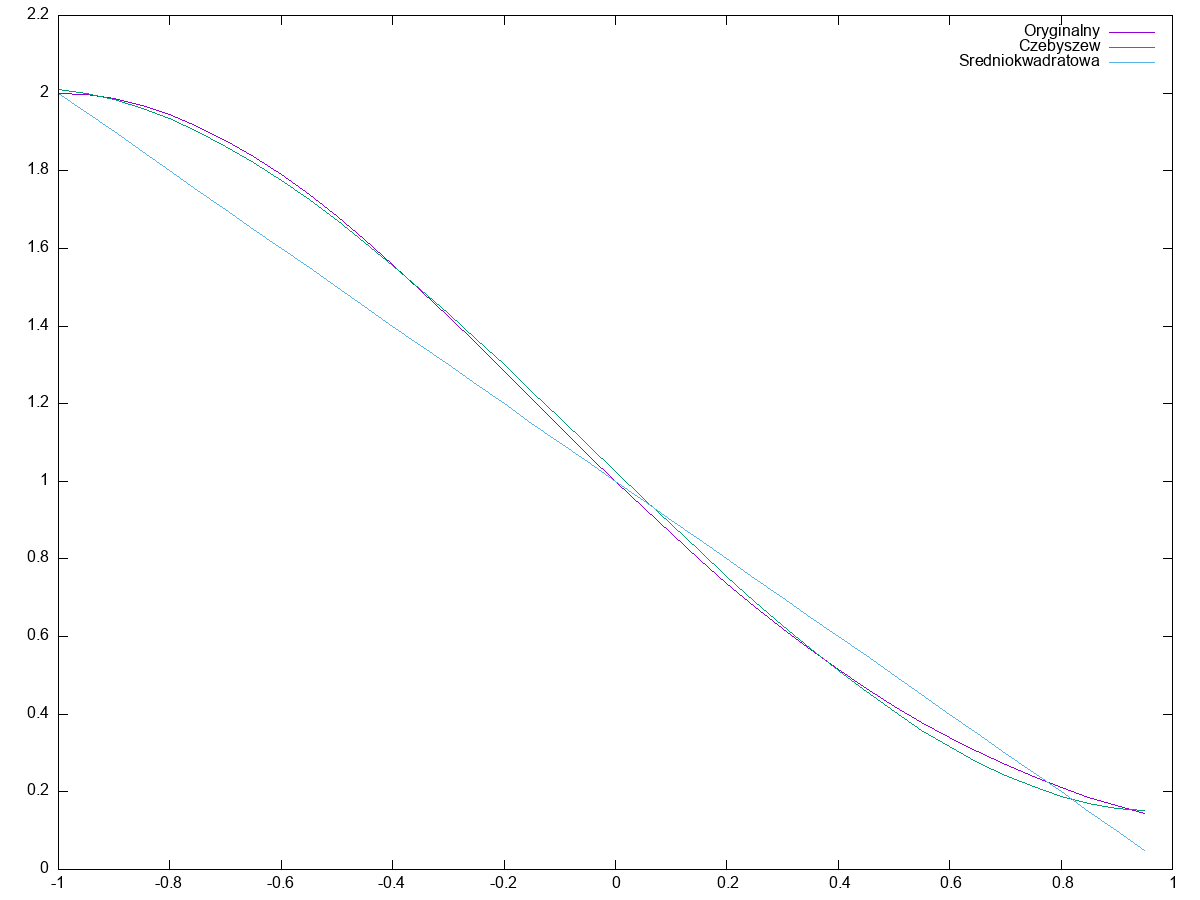
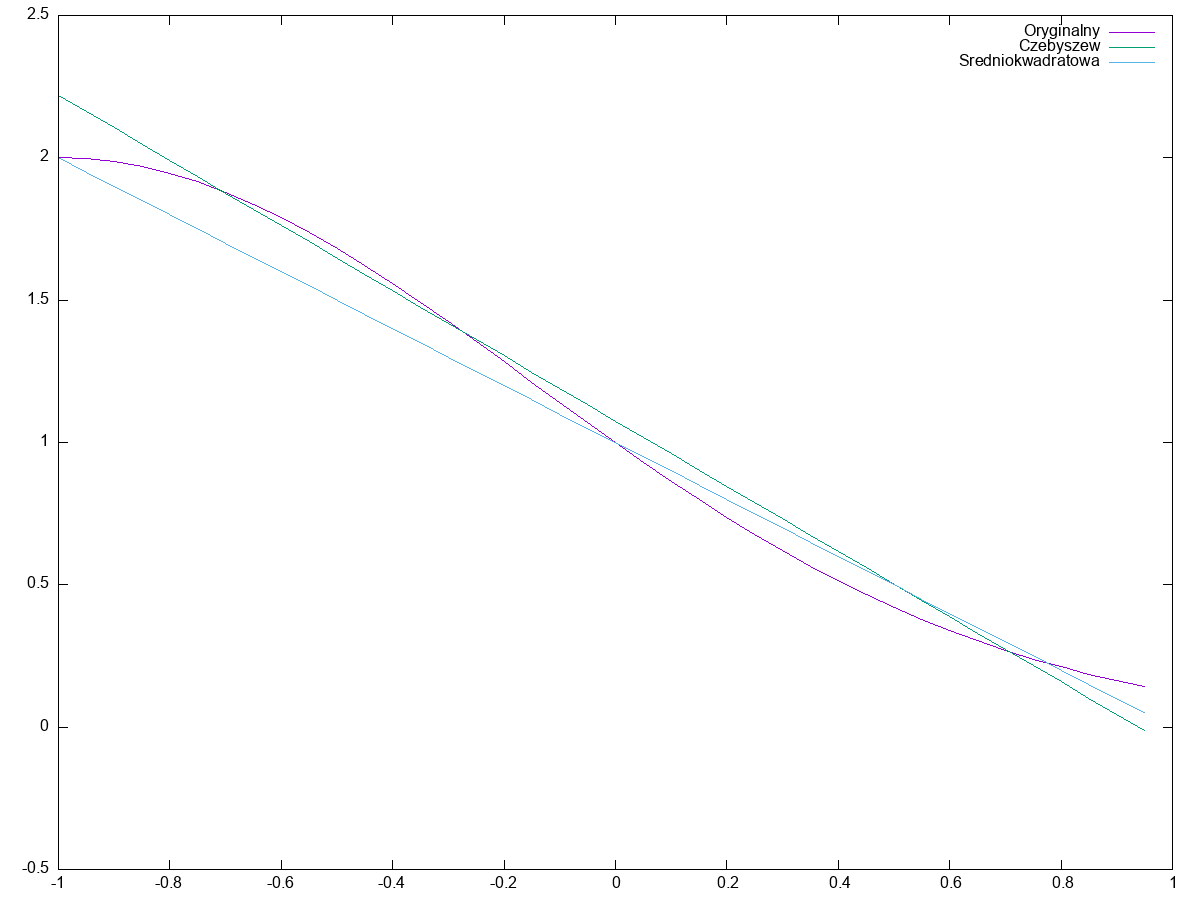
Initial commit

Changed region(s): [[0.0308, 0.7778, 0.0617, 0.8089], [0.0308, 0.1556, 0.0617, 0.1867], [0.0308, 0.0933, 0.0617, 0.1244]]

diff --git a/czebyszew-a-sredniokwadratowa/main.c b/czebyszew-a-sredniokwadratowa/main.c
@@ -22,8 +22,8 @@ void approxSquares() {
         xs[i] = -1 + i * 2 / 100;
         ys[i] = originalFunc(xs[i], NULL);
     }
-    double c0, c1;
-    gsl_fit_linear(xs, 0, ys, 0, 100, &c0, &c1, null, null);
+    double c0, c1, cov00, cov01, cov11, sumsq;
+    gsl_fit_linear(xs, 1, ys, 1, 100, &c0, &c1, &cov00, &cov01, &cov11, &sumsq);
     FILE* approxFile = fopen("approx-squares.txt", "w");
     EVAL_TO_FILE(approxFile, c0 + c1 * x);
     fclose(approxFile);
@@ -31,7 +31,7 @@ void approxSquares() {
 
 void approximateChebyshev() {
     FILE *chebyshevFile = fopen("approx-chebyshev.txt", "w");
-    gsl_cheb_series *series = gsl_cheb_alloc(5);
+    gsl_cheb_series *series = gsl_cheb_alloc(1);
     gsl_function func;
     func.function = originalFunc;
     func.params = NULL;

diff --git a/czebyszew/main.c b/czebyszew/main.c
@@ -70,7 +70,6 @@ void approxAndSave(char *filePrefix, double (*function)(double x, void *params))
             approx6FileName,
             approx10FileName
     );
-
     system(gnuplot_command);
 }
 

diff --git a/README.md b/README.md
@@ -1,0 +1,108 @@
+Kuba Walusiak, Juliusz Kościołek 09.04.2022, Laboratorium 3
+
+# Aproksymacja funkcji, aproksymacja w bibliotece GSL
+
+## Zad 1
+
+### Polecenie
+
+Proszę zastosować aproksymację Czebyszewa dla funkcji:
+
+```
+y = exp((x**2) w przedziale od -1 do 1
+y = abs(x+x**3) w przedziale od -1 do 1
+y = sign(x) w przedziale od -1 do 1
+```
+
+Dla każdej funkcji proszę:
+
+* narysować wykres funkcji aproksymowanej i aproksymującej (gnuplot)
+* sprawdzić, jak wynik zależy od stopnia wielomianu aproksymującego - przedstawić odpowiednie wykresy
+
+### Wykonanie
+
+Uruchomiono program `czebyszew/main.c`, który wygenerował pliki tekstowe:
+
+* `abs-original` - wartości funkcji `abs`
+* `exp-original` - wartości funkcji `exp`
+* `sign-original` - wartości funkcji `sign`
+* `abs-approxN` - aproksymacja funkcji `abs` za pomocą wielomianów Czebyszewa, gdzie N to stopień wielomianu. Użyte
+  stopnie to 3, 6 i 10.
+* `exp-approxN` - aproksymacja funkcji `exp` za pomocą wielomianów Czebyszewa, gdzie N to stopień wielomianu. Użyte
+  stopnie to 3, 6 i 10.
+* `sign-approxN` - aproksymacja funkcji `sign` za pomocą wielomianów Czebyszewa, gdzie N to stopień wielomianu. Użyte
+  stopnie to 3, 6 i 10.
+
+Polecenie kompilujące program `czebyszew/main.c` to:
+
+```
+gcc main.c -lgslcblas -lgsl -lm -o main && ./main
+```
+
+Ponadto, program `czebyszew/main.c` wygenerował następujące pliki:
+
+* `abs.png` - wykres dla funkcji `abs`, zawierający oryginalną funkcję i aproksymacje za pomocą wielomianów Czebyszewa
+* `exp.png` - wykres dla funkcji `exp`, zawierający oryginalną funkcję i aproksymacje za pomocą wielomianów Czebyszewa
+* `sign.png` - wykres dla funkcji `sign`, zawierający oryginalną funkcję i aproksymacje za pomocą wielomianów Czebyszewa
+
+Wykresy wygenerowano za pomocą programu `gnuplot`. Program `gnuplot` wywołano z poniższymi poleceniami:
+
+```
+gnuplot -e "set terminal png size 1200,900; set output 'exp.png'; \
+  plot 'exp-original.txt' with lines title 'Oryginalny', \
+  'exp-approx3.txt' with lines title 'Stopien = 3', \
+  'exp-approx6.txt' with lines title 'Stopien = 6', \
+  'exp-approx10.txt' with lines title 'Stopien = 10'"
+gnuplot -e "set terminal png size 1200,900; set output 'abs.png'; \
+  plot 'abs-original.txt' with lines title 'Oryginalny', \
+  'abs-approx3.txt' with lines title 'Stopien = 3', \
+  'abs-approx6.txt' with lines title 'Stopien = 6', \
+  'abs-approx10.txt' with lines title 'Stopien = 10'"
+gnuplot -e "set terminal png size 1200,900; set output 'sign.png'; \
+  plot 'sign-original.txt' with lines title 'Oryginalny', \
+  'sign-approx3.txt' with lines title 'Stopien = 3', \
+  'sign-approx6.txt' with lines title 'Stopien = 6', \
+  'sign-approx10.txt' with lines title 'Stopien = 10'"
+```
+
+### Wykresy
+
+Dla funkcji `abs`:
+
+![](czebyszew/abs.png)
+
+Dla funkcji `exp`:
+
+![](czebyszew/exp.png)
+
+Dla funkcji `sign`:
+
+![](czebyszew/sign.png)
+
+## Zad. 2
+
+### Polecenie
+
+1. Wykonać aproksymację funkcji `f(x)=(1/2)**( x**2+2x)`, gdzie x należy do przedziału `(-1,1)` przy pomocy aproksymacji
+   średniokwadratowej
+2. Znaleźć aproksymację tej funkcji przy pomocy aproksymacji jednostajnej i porównać tę aproksymację z wynikiem z p1.
+
+### Wykonanie
+
+Stworzono program [czebyszew-a-sredniokwardatowa](czebyszew-a-sredniokwadratowa/main.c), aproksymujący podaną funkcję
+przy użyciu średniokwadratowej regresji liniowej oraz wielomianu Czebyszewa o stopniu 1. Program wygenerował pliki
+tekstowe z danymi, a następnie, przy użyciu programu gnuplot, wykonał wykres pokazujący zadaną funkcję wraz z
+aproksymacjami.
+
+![](czebyszew-a-sredniokwadratowa/out.png)
+
+Jak widać, aproksymacje się różnią, co jest skutkiem różniących się funkcji błędu. Żadna z nich nie wydaje się
+znacząco "gorsza" od drugiej.
+
+## Źródła
+
+Użyte źródła:
+
+- [Przykład średniokwadratowej regresji liniowej w GSL](https://www.gnu.org/software/gsl/doc/html/lls.html#simple-linear-regression-example)
+- [Dokumentacja aproksymacji wielomianami Czebyszewa w GSL](https://www.gnu.org/software/gsl/doc/html/cheb.html)
+- [Dokumentacja programu gnuplot](http://gnuplot.info/docs_5.5/gnuplot5.html)
